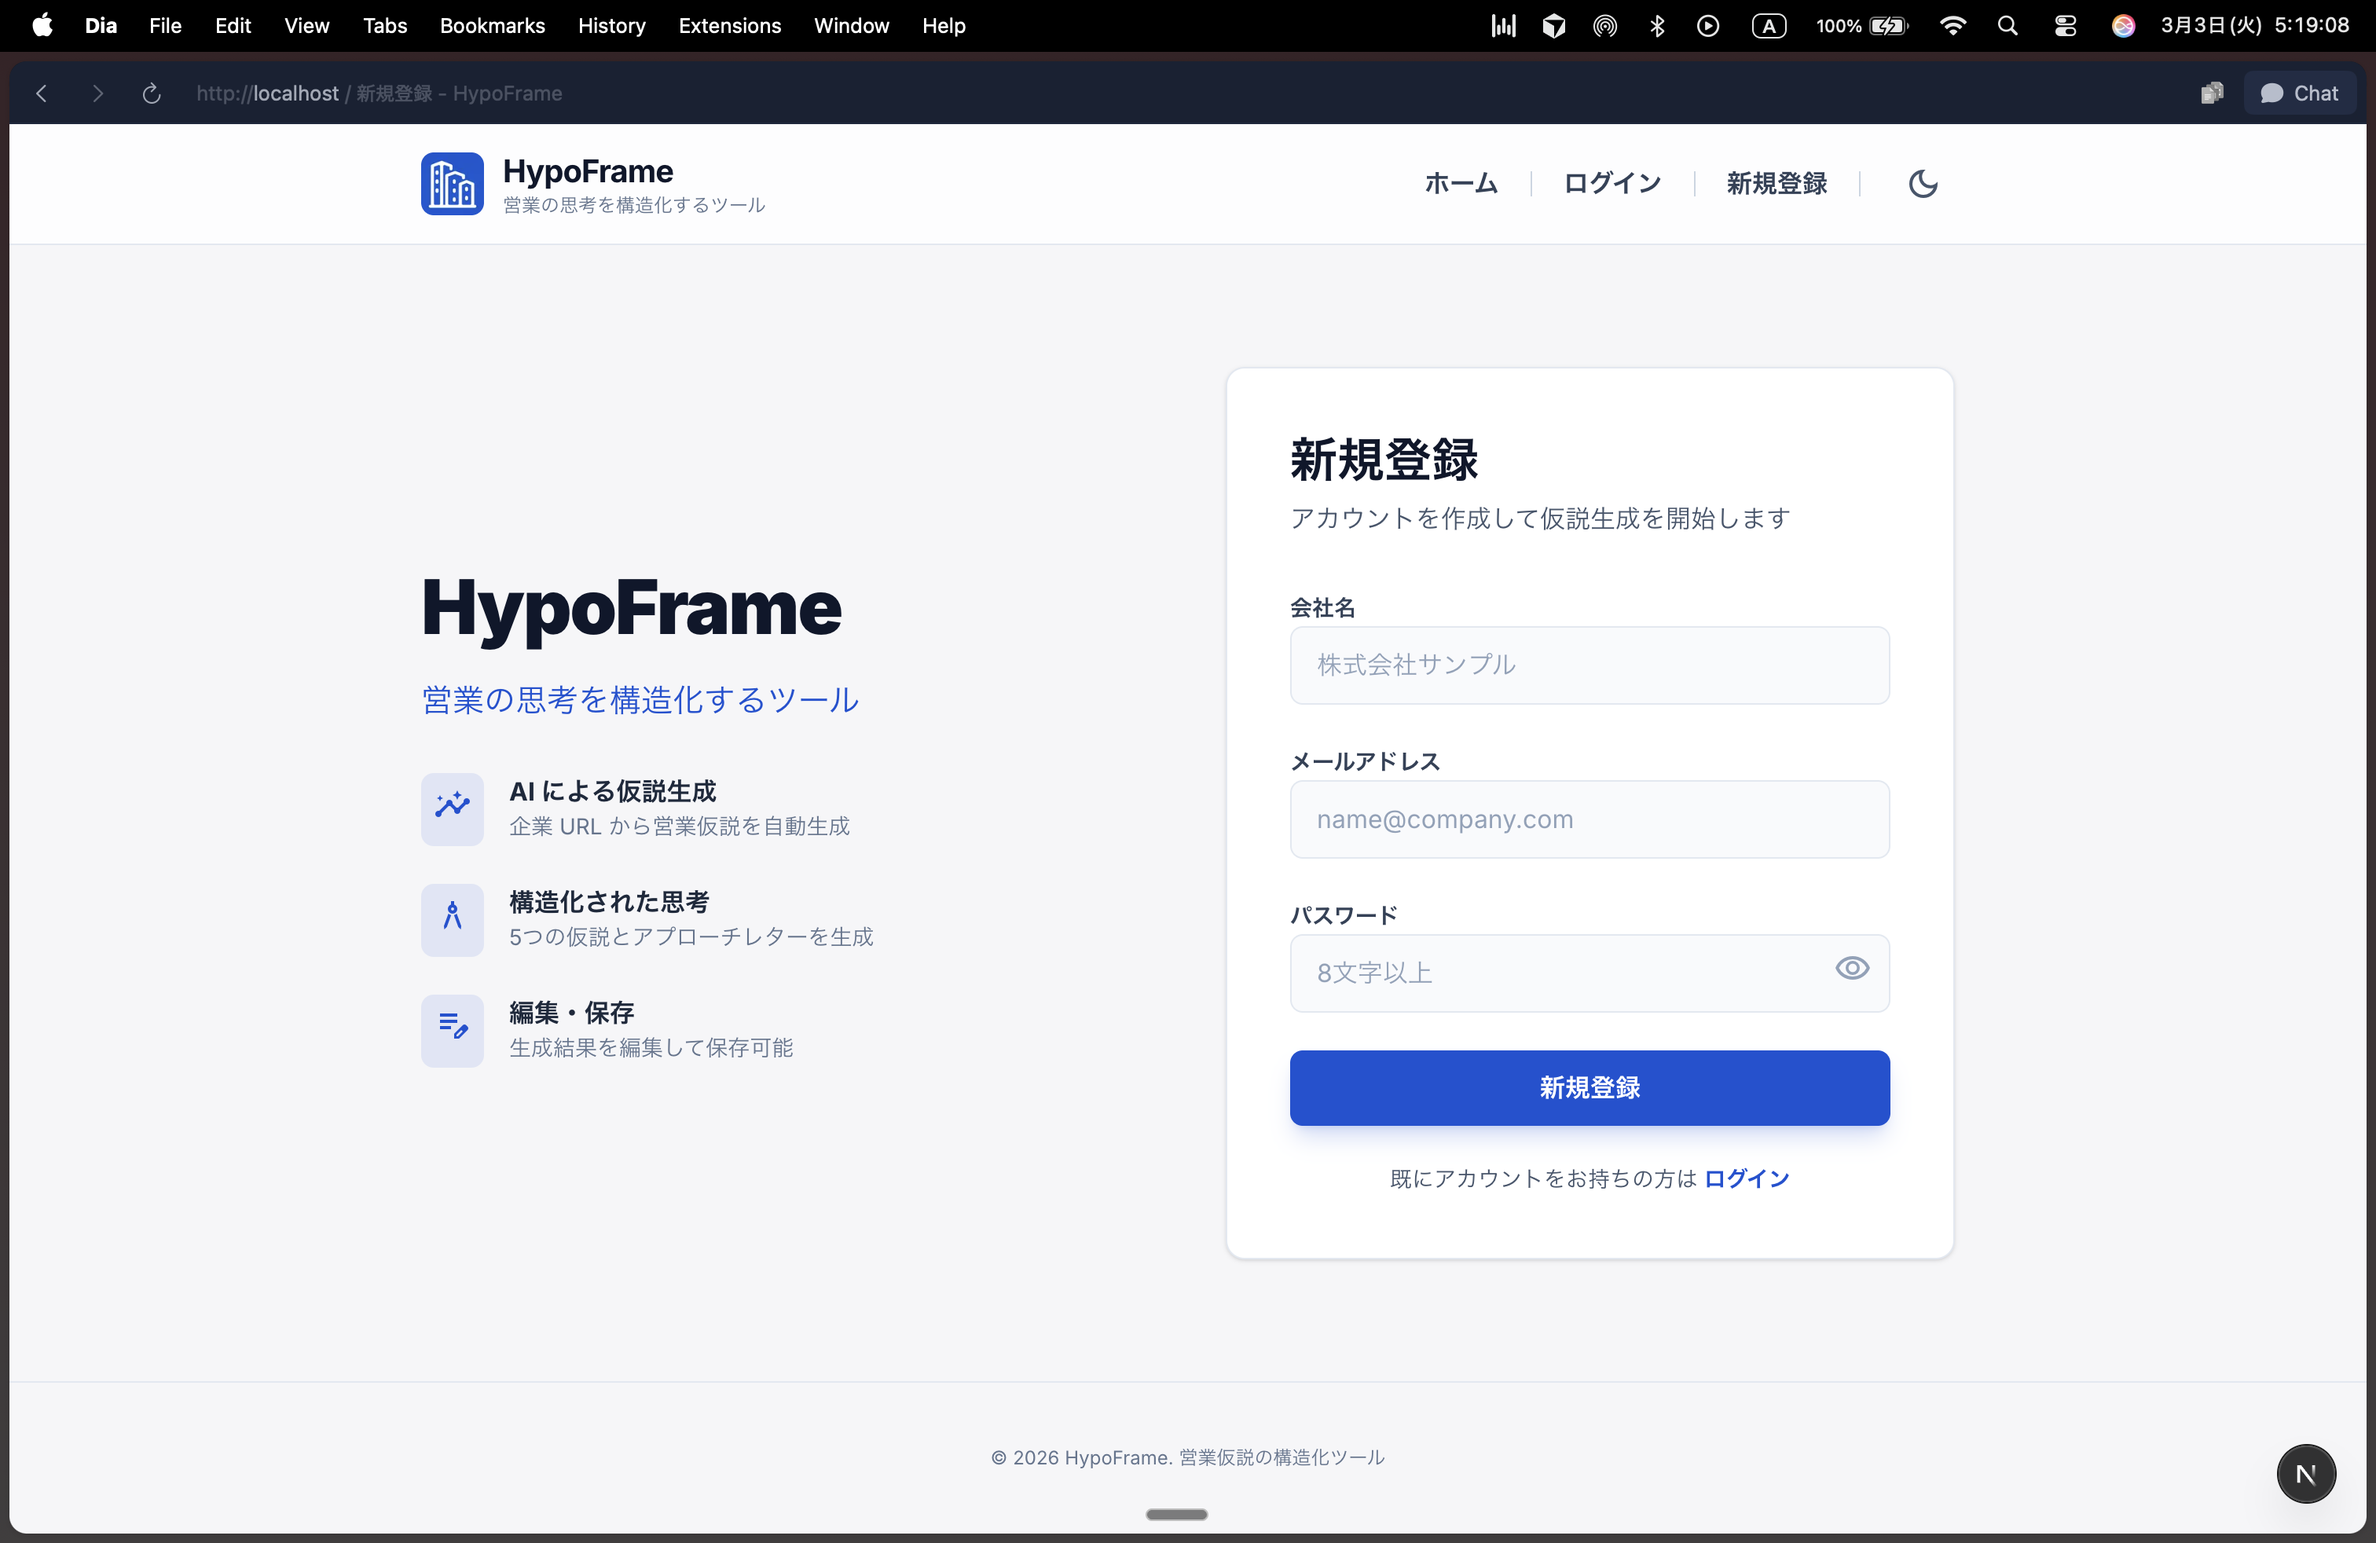
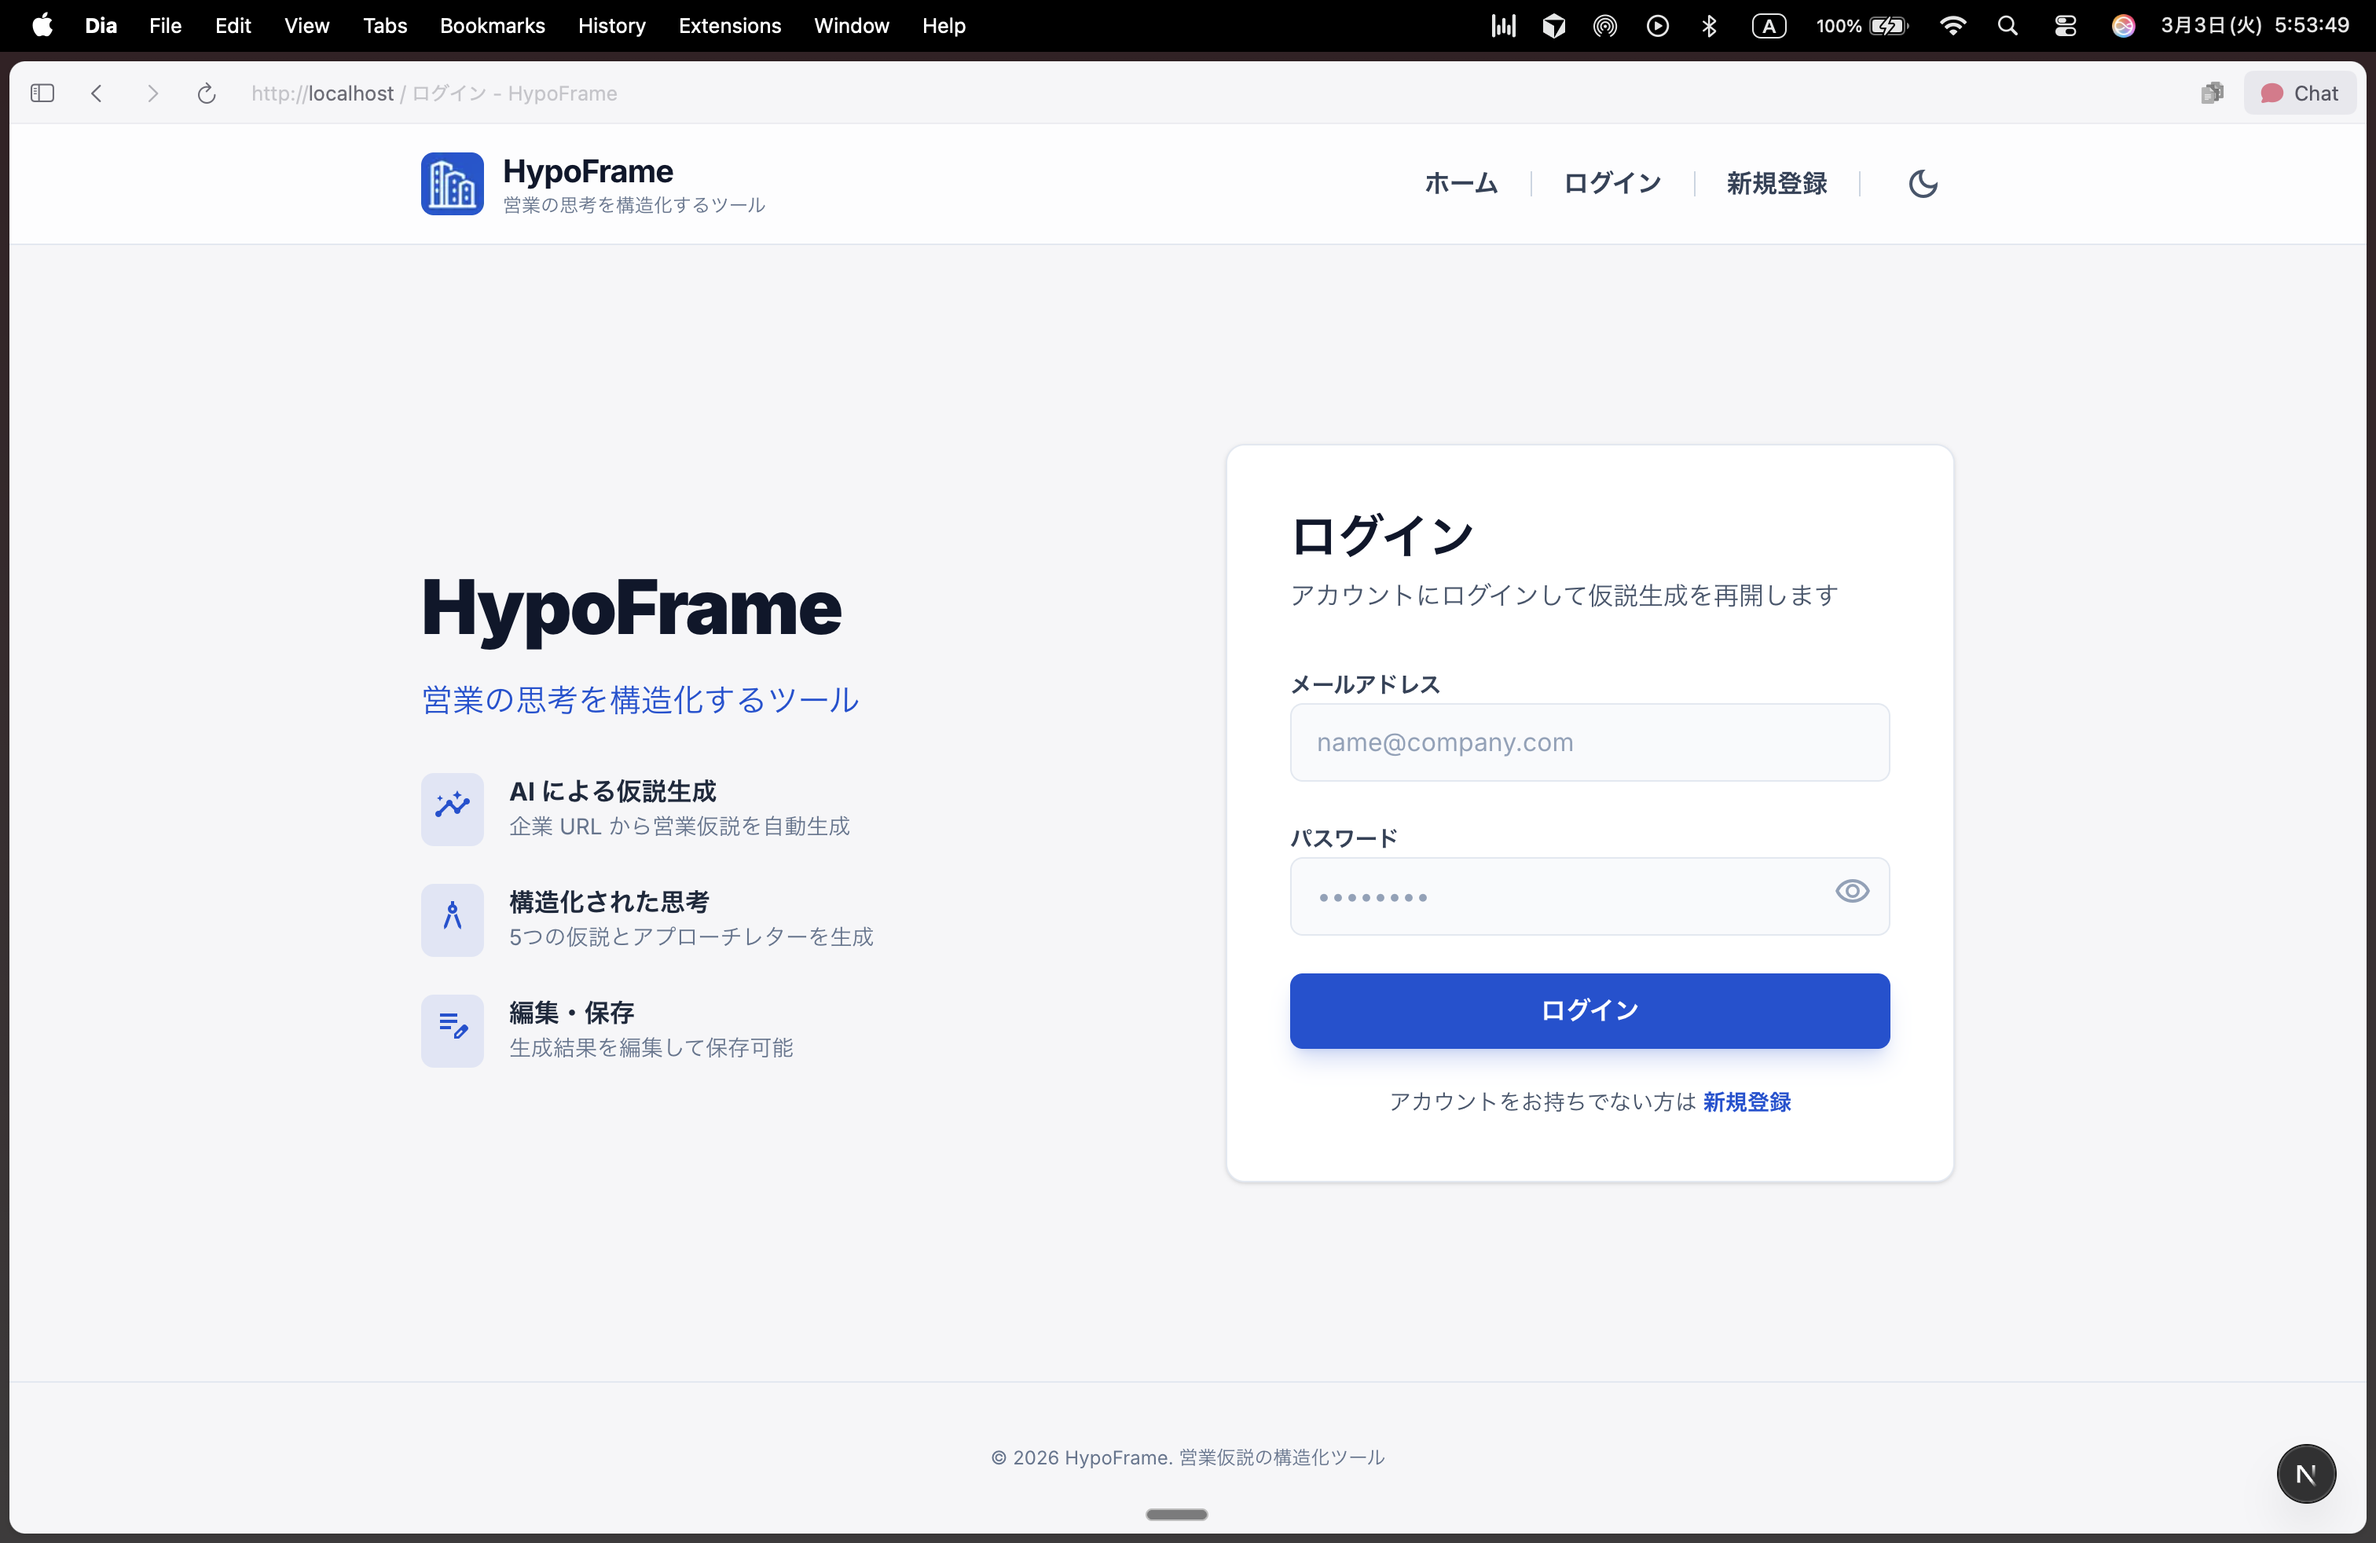
docs: README更新

diff --git a/README.md b/README.md
@@ -4,37 +4,37 @@
 
 ### 主要画面
 
-- **ホーム画面（ダーク / ライト）**
-
-<div align="center">
-  <img src="./images/ホーム画面(ダーク).png" alt="ホーム画面（ダーク）" width="45%" />
-  <img src="./images/ホーム画面(ライト).png" alt="ホーム画面（ライト）" width="45%" />
-</div>
-
 - **ログイン画面（ダーク / ライト）**
 
-<div align="center">
+<div align="center" style="margin: 8px 0 24px;">
   <img src="./images/ログイン画面(ダーク).png" alt="ログイン画面（ダーク）" width="45%" />
   <img src="./images/ログイン画面(ライト).png" alt="ログイン画面（ライト）" width="45%" />
 </div>
 
 - **新規登録画面（ダーク / ライト）**
 
-<div align="center">
+<div align="center" style="margin: 8px 0 24px;">
   <img src="./images/新規登録画面(ダーク).png" alt="新規登録画面（ダーク）" width="45%" />
   <img src="./images/新規登録画面(ライト).png" alt="新規登録画面（ライト）" width="45%" />
 </div>
 
+- **ホーム画面（ダーク / ライト）**
+
+<div align="center" style="margin: 8px 0 24px;">
+  <img src="./images/ホーム画面(ダーク).png" alt="ホーム画面（ダーク）" width="45%" />
+  <img src="./images/ホーム画面(ライト).png" alt="ホーム画面（ライト）" width="45%" />
+</div>
+
 - **仮設画面（ダーク / ライト）**
 
-<div align="center">
+<div align="center" style="margin: 8px 0 24px;">
   <img src="./images/仮設画面(ダーク).png" alt="仮設画面（ダーク）" width="45%" />
   <img src="./images/仮設画面(ライト).png" alt="仮設画面（ライト）" width="45%" />
 </div>
 
 - **提案文画面（ダーク / ライト）**
 
-<div align="center">
+<div align="center" style="margin: 8px 0 24px;">
   <img src="./images/提案文(ダーク).png" alt="提案文画面（ダーク）" width="45%" />
   <img src="./images/提案文ライト.png" alt="提案文画面（ライト）" width="45%" />
 </div>
